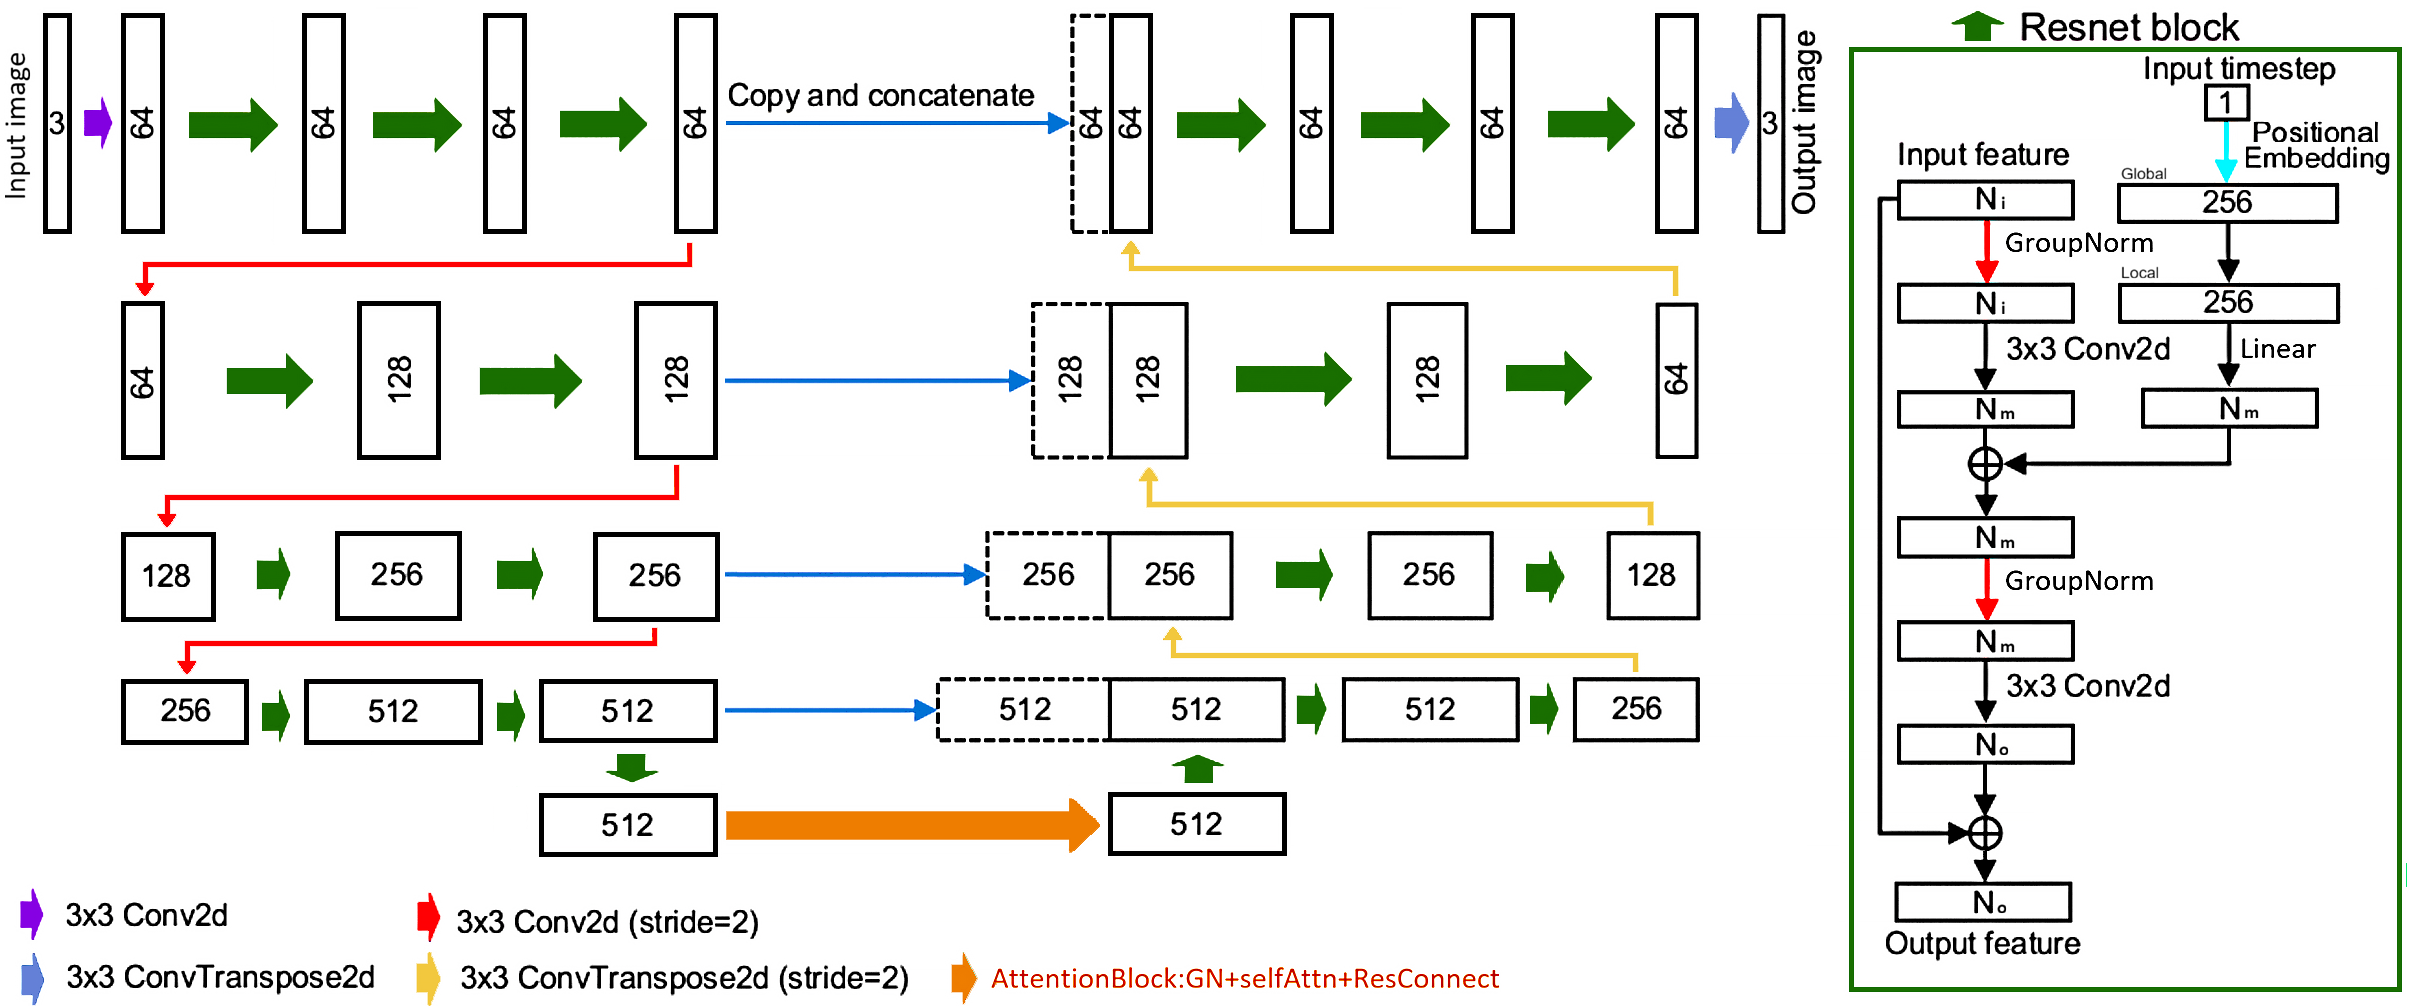
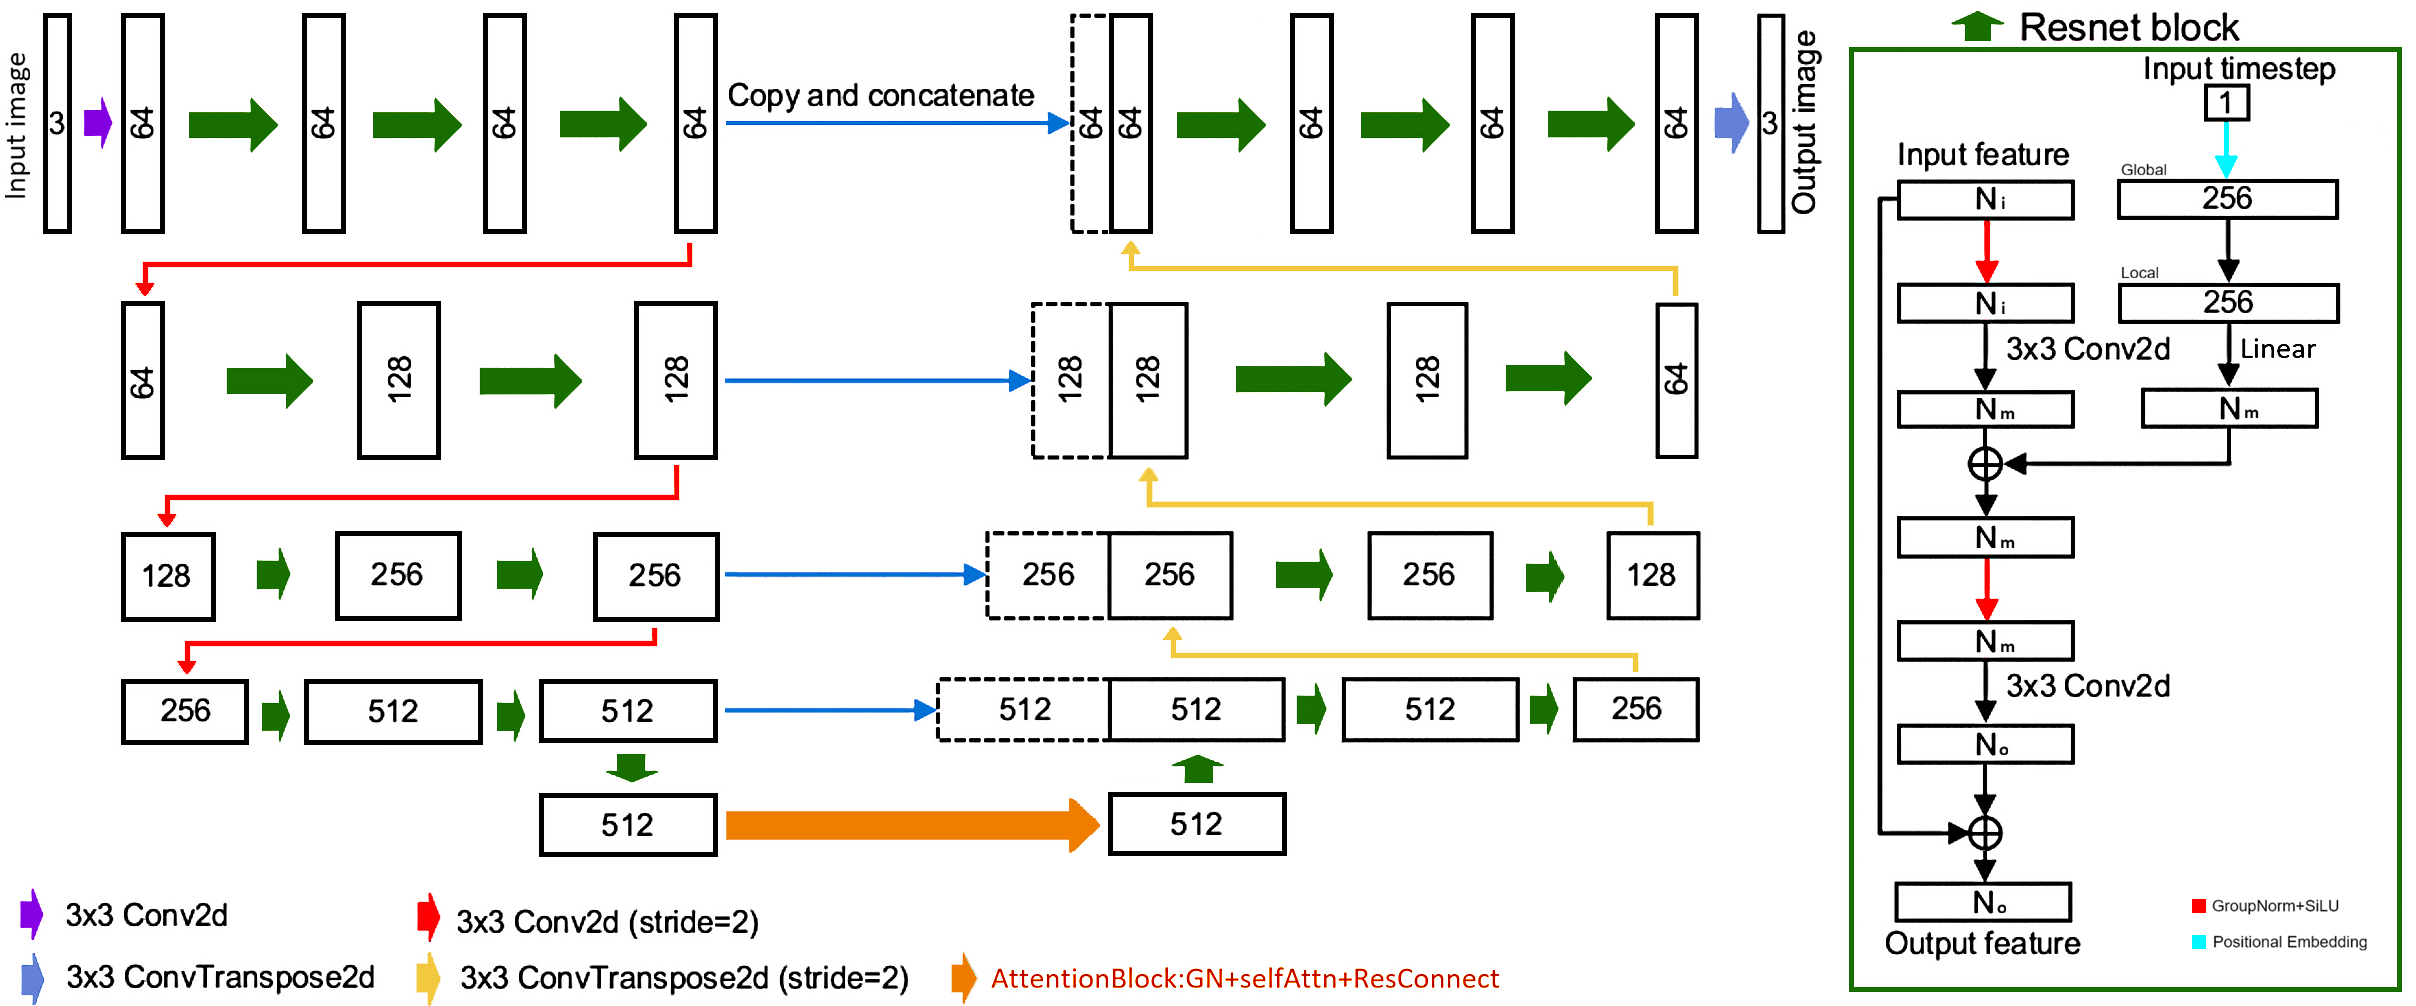
pretty line

Changed region(s): [[0.8382, 0.1233, 0.9934, 0.2465], [0.9002, 0.8936, 0.9934, 0.9553], [0.8382, 0.5547, 0.9002, 0.5855]]

diff --git a/config.py b/config.py
@@ -6,12 +6,12 @@ import torch
 
 from model import Res_Ch, Layer_Ch, Arch
 
-#====================================================================
+#════════════════════════════════════════════════════════════════════
 DEVICE = torch.device("cpu")
 DTYPE = torch.float32
 PADDING_MODE = 'replicate'  # for conv layers
 
-#--------------------------------------------------------------------
+#────────────────────────────────────────────────────────────────────
 CONTINUE = False
 
 EPOCH = 16
@@ -19,12 +19,13 @@ BATCH_SIZE = 8
 LR = 0.00005
 
 ADAM_BETAS = (0.9, 0.999)
-#--------------------------------------------------------------------
+
+#────────────────────────────────────────────────────────────────────
 IMG_FLODER = Path(r"E:\CodeHub\Mydata\AnimeFace") # [IMPORTANT!!!]
 SAVE_PTH_PATH  = Path(__file__).parent / 'ddim_cos.pth'
 SAVE_IMG_PATH = Path(__file__).parent / 'samples'
 
-#====================================================================
+#════════════════════════════════════════════════════════════════════
 ARCH: Arch = (
     Layer_Ch(64,  64,  64, 64),
     Layer_Ch(64,  128, 0, 128),
@@ -38,7 +39,7 @@ TAU: list[int] = list(range(0, TIMESTEP+1, 40))
 ETA: float = 0.0
 "TAU is the list of time steps for sampling, a subset of range(TIMESTEP+1) and include 0 and TIMESTEP"
 
-#====================================================================
+#════════════════════════════════════════════════════════════════════
 DATALOADER_CONFIG = {
     'shuffle': True,
     'batch_size': BATCH_SIZE,
@@ -46,6 +47,6 @@ DATALOADER_CONFIG = {
     'generator': torch.Generator(device=DEVICE) # [IMPORTANT!!!]
 }
 
-#====================================================================
+#════════════════════════════════════════════════════════════════════
 FID_T = 32  # 32 Epoch/ number of evaluation steps for FID
 FID_BATCH = 40  # 40 Batch per evaluation step for FID

diff --git a/train.py b/train.py
@@ -10,17 +10,17 @@ from torchmetrics.image.fid import FrechetInceptionDistance as FID
 
 from tqdm import tqdm
 
-#--------------------------------------------------------------------
+#────────────────────────────────────────────────────────────────────
 from config import *  # import all config variables, CONSTANTS and TYPE ALIASES
 from model import DDIM
 from img_dataset import AnimeFaceDataset
 
 from utils import EMA
-#--------------------------------------------------------------------
+#────────────────────────────────────────────────────────────────────
 torch.set_default_device(DEVICE)
 torch.set_default_dtype(DTYPE)
 
-#====================================================================
+#════════════════════════════════════════════════════════════════════
 assert IMG_FLODER.exists(), f"Image folder {IMG_FLODER} does not exist."
 if not SAVE_PTH_PATH.exists():
     CONTINUE = False  # No checkpoint to continue
@@ -28,9 +28,9 @@ if not SAVE_PTH_PATH.exists():
 if not SAVE_IMG_PATH.exists():
     SAVE_IMG_PATH.mkdir(parents=True, exist_ok=True)
 
-#--------------------------------------------------------------------
+#────────────────────────────────────────────────────────────────────
 face_dataset = AnimeFaceDataset(IMG_FLODER)
-print("▤ The dataset capability is",len(face_dataset))
+print("▤ The dataset capability is", len(face_dataset))
 curr_epoch = 0  # init epoch as default
 
 ddim_fid = FID(reset_real_features=False)
@@ -43,8 +43,8 @@ for img in tqdm(fid_dataloader, "Initialize FID of real data"):
     ddim_fid.update(img, real=True)
 face_dataset.reset()
 
-#--------------------------------------------------------------------
-ddim = DDIM(ARCH, TIMESTEP, TIME_DIM, DEVICE)
+#────────────────────────────────────────────────────────────────────
+ddim = DDIM(ARCH, TIMESTEP, TIME_DIM)
 ddim_optim = optim.Adam(ddim.parameters(), lr=LR, betas=ADAM_BETAS)
 scaler = GradScaler(DEVICE)
 loss_logger = EMA()

diff --git a/model.py b/model.py
@@ -9,14 +9,14 @@ from torchvision.ops import MLP
 
 from tqdm import tqdm
 
-#--------------------------------------------------------------------
+#────────────────────────────────────────────────────────────────────
 Res_Ch = namedtuple('Res_Ch', ['i', 'm', 'o'])
 Layer_Ch = namedtuple('Layer_Ch', ['i', 'm', 'e', 'o'])
 "input, middle, enhance, output"
 
 Arch = tuple[Layer_Ch, ...]
 
-#--------------------------------------------------------------------
+#────────────────────────────────────────────────────────────────────
 def sinPosEmbed( time_step, dim) -> Tensor:
     half_dim = dim // 2                        # i in range(half_dim)
     pos_arr = torch.arange(time_step+1)        # [0, ..., T]
@@ -25,7 +25,7 @@ def sinPosEmbed( time_step, dim) -> Tensor:
     raw_embeddings = torch.outer(pos_arr, cycle) # <timestep+1 , half_dim>
 
     embeddings = torch.zeros((time_step+1,dim))  # <timestep+1 , 2*half_dim>
-    embeddings[:,0::2] = raw_embeddings.sin()  # slice assignment
+    embeddings[:,0::2] = raw_embeddings.sin()    # slice assignment
     embeddings[:,1::2] = raw_embeddings.cos()
     
     return embeddings
@@ -194,7 +194,6 @@ class DDIM(nn.Module):
     arch: Arch
     T: int             # time steps
     time_emb_dim: int  # the dimension of time embedding, alias: ted
-    device: torch.device
 
     def __post_init__(self):
         super().__init__()

diff --git a/utils.py b/utils.py
@@ -14,11 +14,9 @@ from tqdm import tqdm
 from config import ARCH, TIME_DIM, TIMESTEP, DEVICE
 from api_key import APP_KEY, APP_SECRET
 from model import DDIM
-
-#--------------------------------------------------------------------
+#────────────────────────────────────────────────────────────────────
 ImgLoader: TypeAlias = Iterable[Tensor]
-
-#--------------------------------------------------------------------
+#────────────────────────────────────────────────────────────────────
 @dataclass
 class WelfordStats:
     n: int = 0
@@ -163,8 +161,7 @@ class YoudaoTranslator:
         return self.translate(q, src=src, tgt=tgt)
 
 
-
-#--------------------------------------------------------------------
+#────────────────────────────────────────────────────────────────────
 if __name__ == "__main__":
     youdao = YoudaoTranslator()
     print(youdao()['translation'])

diff --git a/img_dataset.py b/img_dataset.py
@@ -10,11 +10,11 @@ from torchvision.io import decode_image, write_jpeg
 
 from config import DEVICE, DTYPE
 
-#--------------------------------------------------------------------
+#────────────────────────────────────────────────────────────────────
 torch.set_default_device(DEVICE)
 torch.set_default_dtype(DTYPE)
 
-#--------------------------------------------------------------------
+#────────────────────────────────────────────────────────────────────
 @dataclass
 class AnimeFaceDataset(Dataset):
     floder: Path
